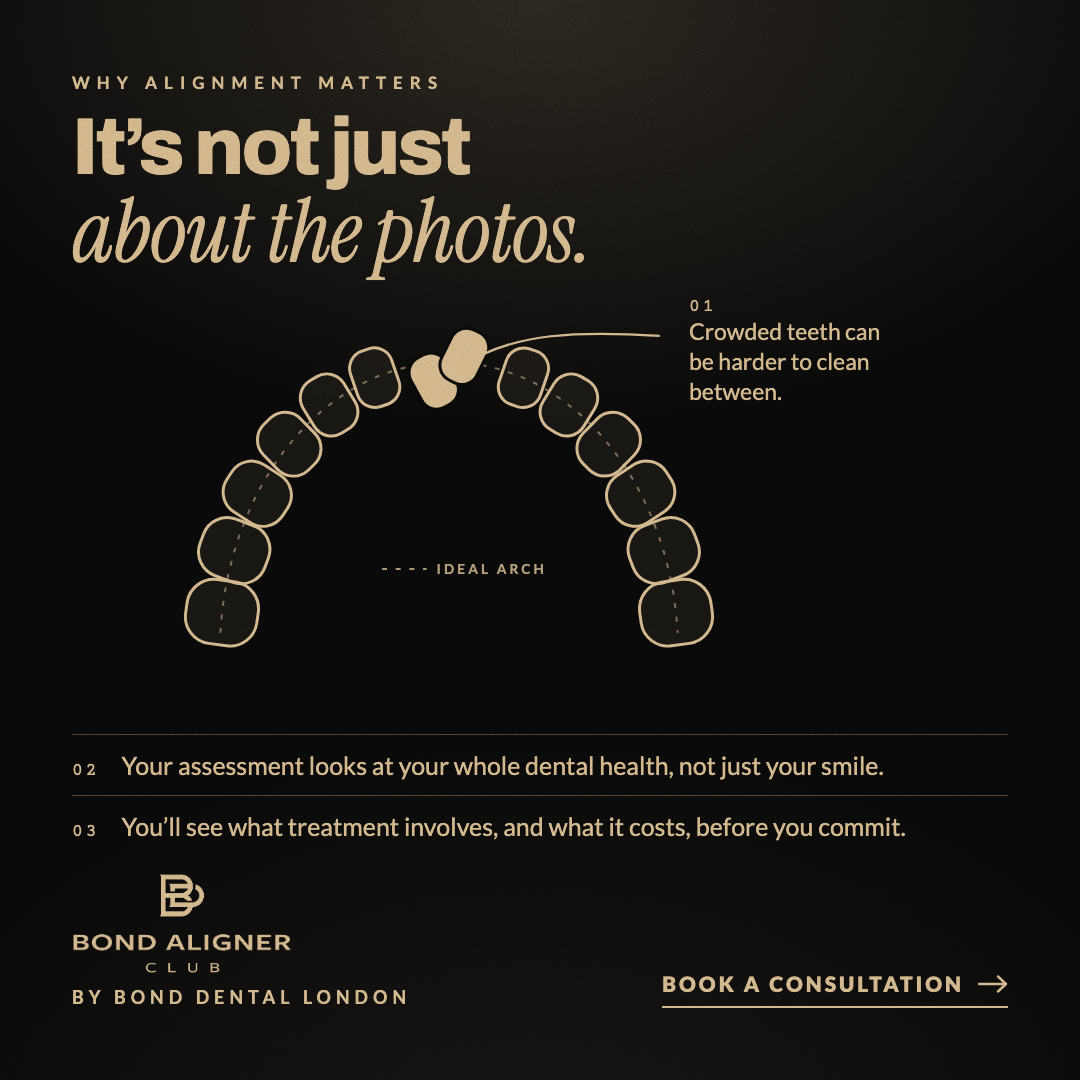
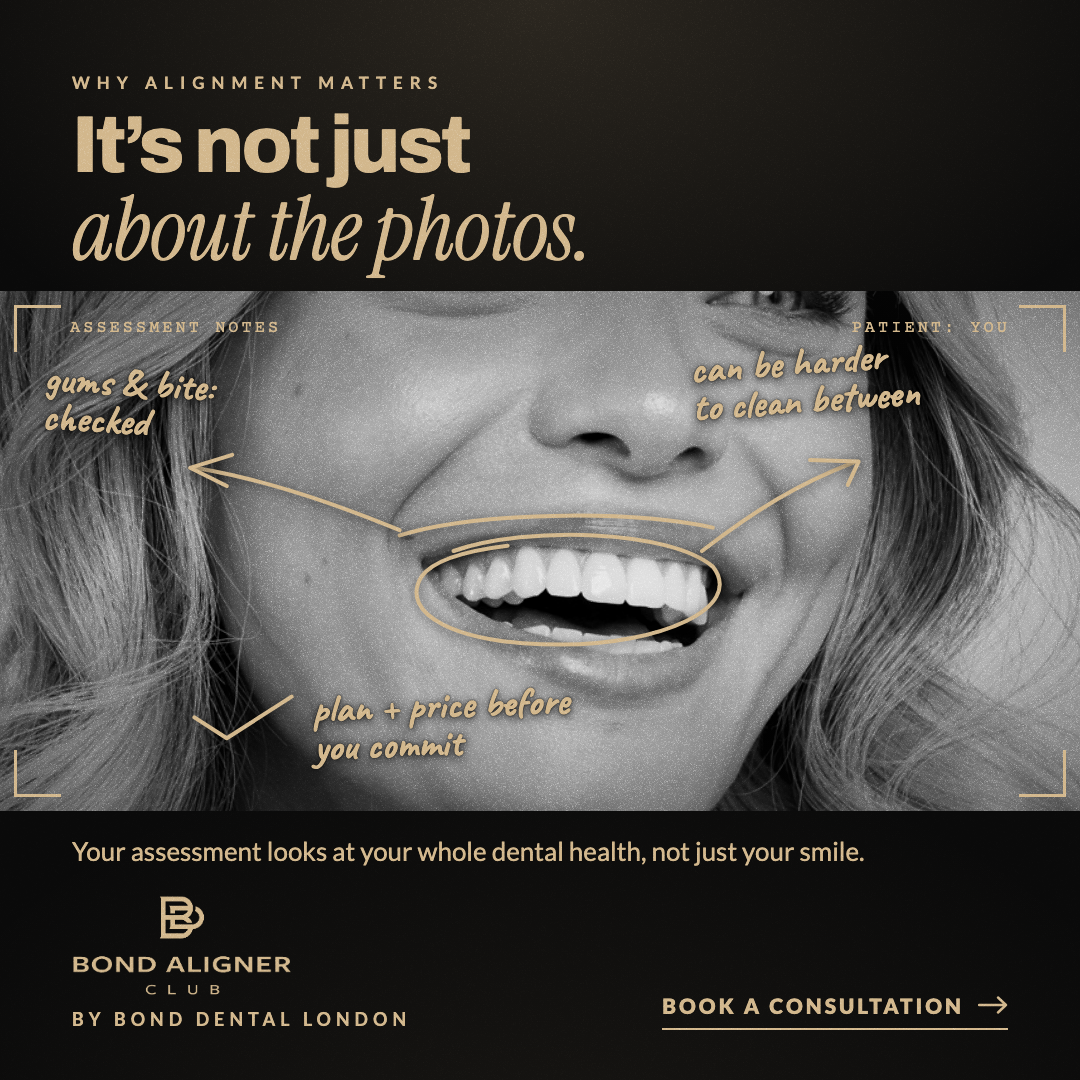
feat(creative): rebuild BAC-08 as dentist's markup over smile close-up

diff --git a/outputs/creative/bond-aligner-club-meta-statics/v2/sec_b.py b/outputs/creative/bond-aligner-club-meta-statics/v2/sec_b.py
@@ -89,59 +89,56 @@ def bac07(f, w, h):
     return frame(w, h, BG_GOLD, BLACK, '', content, grain('dark', 0.3, 'multiply') + grain('light', 0.3, 'overlay'), PAD[f])
 
 
-# ---------- BAC-08: arch diagram ----------
-def arch_svg(width):
-    teeth = []
-    n = 14
-    for i in range(n):
-        a = -82 + i * (164 / (n - 1))
-        rad = math.radians(a)
-        x = 250 + 185 * math.sin(rad)
-        y = 300 - 235 * math.cos(rad)
-        t = abs(a) / 82
-        tw = 30 + 22 * t
-        th = 44 + 14 * t
-        rot = a
-        crowd = i in (6, 7)
-        if crowd:
-            rot += -22 if i == 6 else 20
-            y += 14 if i == 6 else -6
-            x += 8 if i == 6 else -8
-        fill = GOLD if crowd else 'rgba(210,183,140,0.08)'
-        stroke = BLACK if crowd else GOLD
-        teeth.append(f'<rect x="{x - tw / 2:.1f}" y="{y - th / 2:.1f}" width="{tw:.1f}" height="{th:.1f}" rx="{tw * 0.42:.1f}" '
-                     f'transform="rotate({rot:.1f} {x:.1f} {y:.1f})" fill="{fill}" stroke="{stroke}" stroke-width="2.4"/>')
-    ideal = ' '.join(f'{250 + 185 * math.sin(math.radians(a)):.1f},{300 - 235 * math.cos(math.radians(a)):.1f}' for a in range(-86, 87, 4))
-    return (f'<svg width="{width}" height="{int(width * 0.62)}" viewBox="40 40 420 280" aria-hidden="true" style="display: block; overflow: visible;">'
-            f'<polyline points="{ideal}" fill="none" stroke="{GOLD}" stroke-width="1.6" stroke-dasharray="4 7" opacity="0.55"/>'
-            + ''.join(teeth) +
-            f'<path d="M258 70 C 300 40, 360 40, 420 44" stroke="{GOLD}" stroke-width="1.8" fill="none"/>'
-            f'<circle cx="258" cy="70" r="5" fill="{GOLD}"/>'
-            f'<path d="M196 232 H 232" stroke="{GOLD}" stroke-width="1.6" stroke-dasharray="4 7" opacity="0.8"/>'
-            f'<text x="240" y="236" style="font-family: Lato, sans-serif; font-size: 11px; font-weight: 700; letter-spacing: 2.5px;" fill="{GOLD}" opacity="0.85">IDEAL ARCH</text>'
-            '</svg>')
+# ---------- BAC-08: the dentist's markup ----------
+def mark_svg(d, extra=''):
+    return (f'<svg width="100%" height="100%" viewBox="0 0 100 100" preserveAspectRatio="none" aria-hidden="true" '
+            f'style="position: absolute; left: 0; top: 0; overflow: visible; filter: drop-shadow(0 2px 6px rgba(10,10,10,0.7));">'
+            f'<path d="{d}" stroke="{GOLD}" stroke-width="4" stroke-linecap="round" stroke-linejoin="round" fill="none" vector-effect="non-scaling-stroke"/>{extra}</svg>')
+
+
+def note(text, left, top, size, rot, align='left', width=None):
+    wcss = f'width: {width}px;' if width else 'white-space: nowrap;'
+    return (f'<div style="position: absolute; left: {left}%; top: {top}%; transform: rotate({rot}deg); {HAND} font-weight: 700; font-size: {size}px; '
+            f'line-height: 0.95; color: {GOLD}; text-align: {align}; {wcss} text-shadow: 0 2px 10px rgba(10,10,10,0.9), 0 0 2px rgba(10,10,10,0.8);">{text}</div>')
 
 
 def bac08(f, w, h):
-    aw = v(f, 560, 640, 700)
-    lw = v(f, 220, 250, 220)
-    cw_ = w - PAD[f][1] - PAD[f][3]
-    ml = max(0, int((cw_ - (aw * 0.93 + lw)) / 2))
-    diag = (f'<div style="position: relative; align-self: flex-start; margin-left: {ml}px; width: {aw}px; flex-shrink: 0;">{arch_svg(aw)}'
-            f'<div style="position: absolute; left: {int(aw * 0.93)}px; top: -{v(f, 34, 36, 40)}px; width: {lw}px;">'
-            f'<div style="{MONO} font-size: 18px; letter-spacing: 3px; color: {GOLD};">01</div>'
-            f'<div style="{BODY} font-size: {v(f, 23, 25, 28)}px; line-height: 1.3; color: {GOLD};">Crowded teeth can be harder to clean between.</div></div></div>')
-    pts = [('02', 'Your assessment looks at your whole dental health, not just your smile.'),
-           ('03', 'You’ll see what treatment involves, and what it costs, before you commit.')]
-    lst = ''.join(f'<div style="display: flex; gap: 22px; align-items: baseline; padding-top: {v(f, 14, 18, 24)}px; border-top: 1px solid rgba(210,183,140,0.35);">'
-                  f'<div style="{MONO} font-size: 18px; letter-spacing: 3px; color: {GOLD}; flex-shrink: 0;">{n}</div>'
-                  f'<div style="{BODY} font-size: {v(f, 25, 28, 32)}px; line-height: 1.3; color: {GOLD};">{t}</div></div>' for n, t in pts)
+    ph = v(f, 520, 700, 960)
+    ns = v(f, 40, 46, 52)
+    corner = lambda pos, bd: f'<div style="position: absolute; {pos} width: 44px; height: 44px; {bd}"></div>'
+    g = f'3px solid {GOLD}'
+    corners = (corner('left: 14px; top: 14px;', f'border-left: {g}; border-top: {g};') + corner('right: 14px; top: 14px;', f'border-right: {g}; border-top: {g};')
+               + corner('left: 14px; bottom: 14px;', f'border-left: {g}; border-bottom: {g};') + corner('right: 14px; bottom: 14px;', f'border-right: {g}; border-bottom: {g};'))
+    marks = (
+        # ring round the front teeth
+        mark_svg('M42 50 C 49 45, 62 46, 66 53 C 69 61, 61 68, 52 68 C 42 68, 37 62, 39 55 C 40 52, 43 50, 47 49')
+        # arrow from ring to note 1 (upper right)
+        + mark_svg('M65 50 C 70 42, 74 37, 79 33', '')
+        + mark_svg('M75 32.5 L 79.5 32.8 L 78.5 37.3')
+        # bracket along the gum line + arrow to note 2 (left)
+        + mark_svg('M37 47 C 44 42.5, 58 42, 66 45.5')
+        + mark_svg('M37 46 C 30 40, 24 36, 18 34')
+        + mark_svg('M21.5 31.5 L 17.6 34 L 21 37.5')
+        # tick for note 3
+        + mark_svg('M18 82 L 21 86 L 27 78')
+    )
+    n1 = note('can be harder<br>to clean between', v(f, 64, 64, 60), v(f, 10, 14, 15), ns, -4)
+    n2 = note('gums &amp; bite:<br>checked', v(f, 4, 4, 4), v(f, 14, 17, 18), ns, 3)
+    n3 = note('plan + price before<br>you commit', v(f, 29, 29, 29), v(f, 76, 78, 79), ns, -2)
+    photo = (f'<div style="height: {ph}px; flex-shrink: 0; position: relative; overflow: hidden; margin: 0 -{PAD[f][1]}px; background: #1a1a1a;">'
+             f'<img src="{B["smile"]}" alt="" style="position: absolute; left: 0; top: 0; width: 100%; height: 100%; object-fit: cover; '
+             f'object-position: 57% 55%; transform: scale({v(f, 2.1, 2.0, 2.2)}); transform-origin: 57% 56%; filter: grayscale(1) contrast(1.12) brightness(0.9);">'
+             f'<div style="position: absolute; left: 0; right: 0; top: 0; bottom: 0; background: radial-gradient(80% 70% at 50% 50%, rgba(10,10,10,0) 40%, rgba(10,10,10,0.55) 100%);"></div>'
+             + grain('light', 0.45, 'overlay') + corners
+             + f'<div style="position: absolute; left: 70px; top: 28px; {MONO} font-size: 17px; letter-spacing: 3px; color: {GOLD};">ASSESSMENT NOTES</div>'
+             + f'<div style="position: absolute; right: 70px; top: 28px; {MONO} font-size: 17px; letter-spacing: 3px; color: {GOLD};">PATIENT: YOU</div>'
+             + marks + n1 + n2 + n3 + '</div>')
     content = (f'<div style="{BODY} font-size: 17px; font-weight: 700; letter-spacing: 7px; text-transform: uppercase; color: {GOLD};">Why alignment matters</div>'
-               + spacer(v(f, 18, 24, 30))
+               + spacer(v(f, 16, 22, 28))
                + two_line_head('gold', 'It’s not just', 'about the photos.', v(f, 80, 92, 104), v(f, 88, 100, 114))
-               + grow() + diag + grow()
-               + f'<div style="display: flex; flex-direction: column; gap: {v(f, 14, 18, 24)}px;">{lst}</div>'
-               + spacer(v(f, 30, 44, 56)) + footer('gold'))
+               + spacer(v(f, 18, 26, 30)) + grow() + photo + spacer(v(f, 24, 32, 40)) + grow()
+               + f'<div style="{BODY} font-size: {v(f, 26, 29, 33)}px; line-height: 1.3; color: {GOLD};">Your assessment looks at your whole dental health, not just your smile.</div>'
+               + spacer(v(f, 26, 40, 52)) + footer('gold'))
     return frame(w, h, BG_BLACK, GOLD, '', content, grain('light', 0.3, 'overlay'), PAD[f])
 
 
